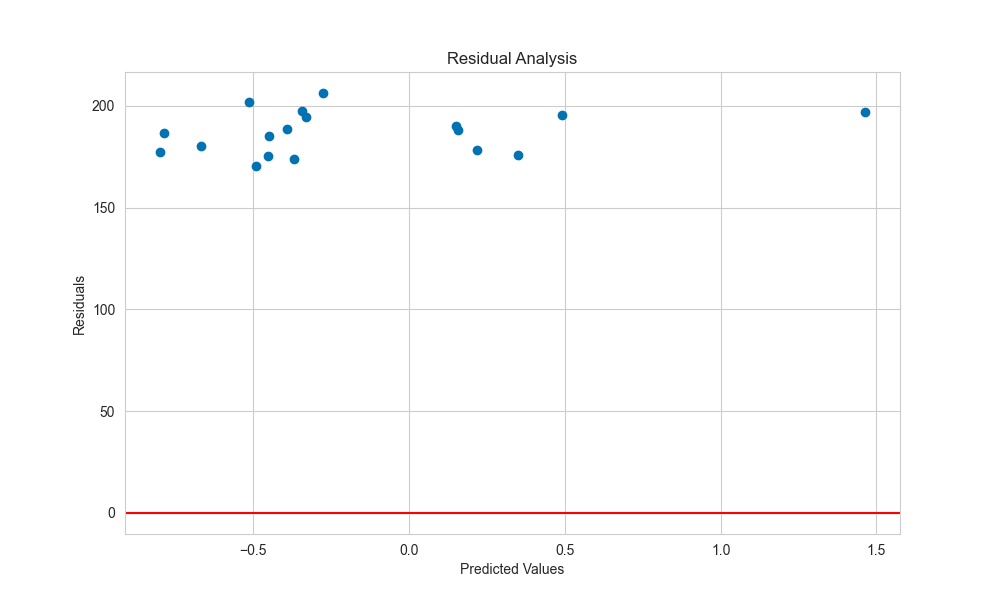
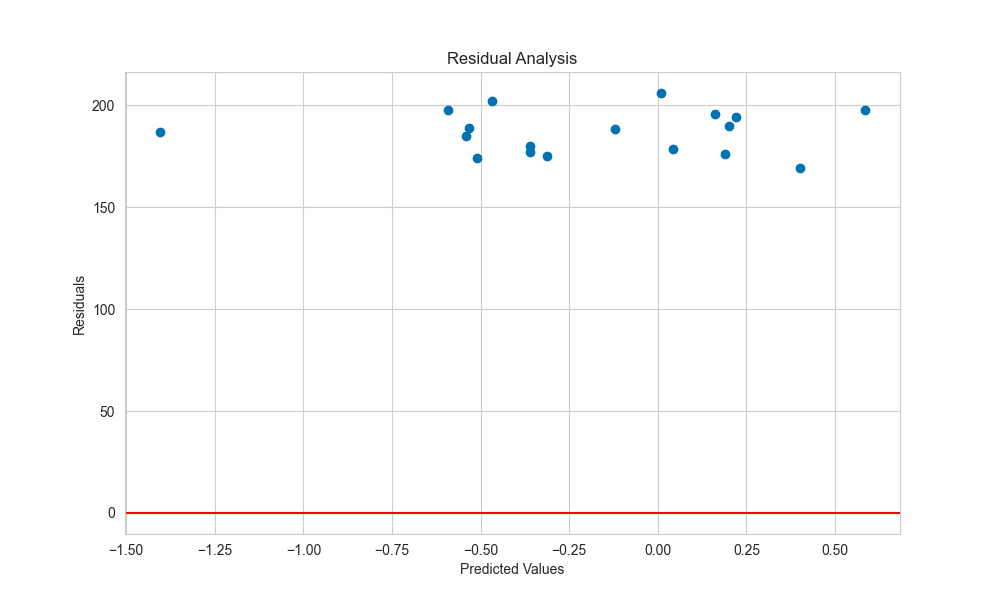
update stats

diff --git a/README.md b/README.md
@@ -280,11 +280,11 @@ rmse_pytorch = np.sqrt(mse_pytorch)
 
 | Model | Mean Absolute Error | Mean Squared Error | RMSE |
 |-------|---------------------|-------------------|------|
-| Gradient Boosting | 12.82 | 265.845 | 16.305 |
-| Linear Regression | 12.734 | 267.904 | 16.368 |
-| Random Forest Regressor | 12.797 | 282.015 | 16.793 |
-| Neural Network Regressor | 12.67 | 273.87 | 16.55 |
-| Decision Tree Regressor | 18.988 | 595.299 | 24.399 |
+| Gradient Boosting | 9.884 | 141.381 | 11.890 |
+| Linear Regression | 14.834 | 302.124 | 17.382 |
+| Random Forest Regressor | 8.266 | 102.871 | 10.143 |
+| Neural Network Regressor | 186.783 | 34994.641 | 187.069 |
+| Decision Tree Regressor | 12.317 | 255.963 | 15.999 |
 
 ## 📈 Model Explanation and Performance Analysis
 
